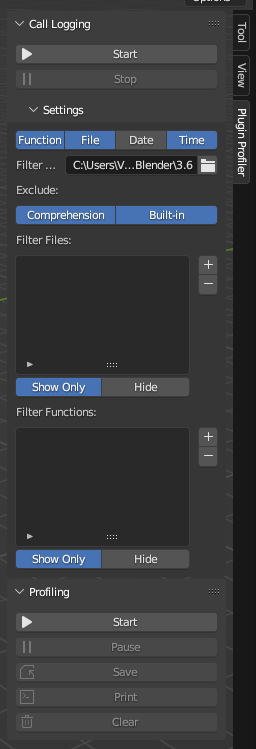
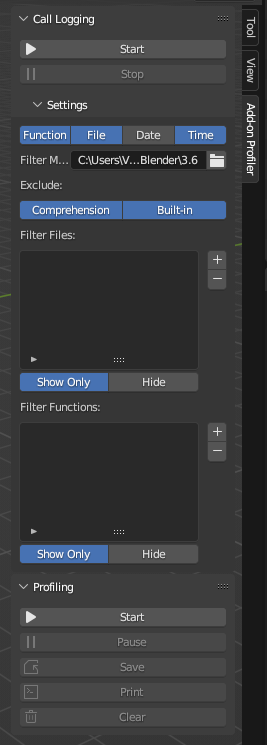
Renamed addon

diff --git a/AddonProfiler/ui.py b/AddonProfiler/ui.py
@@ -12,10 +12,10 @@ from . import utils
 prof = utils.Profiler()
 
 
-class PPROF_OT_logging_filter_add(bpy.types.Operator):
+class APROF_OT_logging_filter_add(bpy.types.Operator):
     """Add new filter item"""
 
-    bl_idname = "pprof.logging_filter_add"
+    bl_idname = "aprof.logging_filter_add"
     bl_label = "Add"
     bl_options = {'REGISTER', 'UNDO'}
 
@@ -29,15 +29,15 @@ class PPROF_OT_logging_filter_add(bpy.types.Operator):
         return True
     
     def execute(self, context):
-        getattr(context.window_manager.pprof_logging, self.prop).add()
+        getattr(context.window_manager.aprof_logging, self.prop).add()
 
         return {'FINISHED'}
 
 
-class PPROF_OT_logging_filter_remove(bpy.types.Operator):
+class APROF_OT_logging_filter_remove(bpy.types.Operator):
     """Remove selected filter item"""
 
-    bl_idname = "pprof.logging_filter_remove"
+    bl_idname = "aprof.logging_filter_remove"
     bl_label = "Remove"
     bl_options = {'REGISTER', 'UNDO'}
 
@@ -51,7 +51,7 @@ class PPROF_OT_logging_filter_remove(bpy.types.Operator):
         return True
     
     def execute(self, context):
-        props = context.window_manager.pprof_logging
+        props = context.window_manager.aprof_logging
         idx = getattr(props, "%s_index" % self.prop)
         filters = getattr(props, self.prop)
         if not (0 <= idx < len(filters)):
@@ -63,10 +63,10 @@ class PPROF_OT_logging_filter_remove(bpy.types.Operator):
         return {'FINISHED'}
 
 
-class PPROF_OT_logging_start(bpy.types.Operator):
+class APROF_OT_logging_start(bpy.types.Operator):
     """Start execution logging"""
 
-    bl_idname = "pprof.logging_start"
+    bl_idname = "aprof.logging_start"
     bl_label = "Start"
     bl_options = {'REGISTER'}
 
@@ -76,15 +76,15 @@ class PPROF_OT_logging_start(bpy.types.Operator):
     
     def execute(self, context):
         profiler = utils.Profiler()
-        profiler.settings = context.window_manager.pprof_logging
+        profiler.settings = context.window_manager.aprof_logging
         setprofile(profiler.logger)
         return {'FINISHED'}
 
 
-class PPROF_OT_logging_stop(bpy.types.Operator):
+class APROF_OT_logging_stop(bpy.types.Operator):
     """Stop execution logging"""
 
-    bl_idname = "pprof.logging_stop"
+    bl_idname = "aprof.logging_stop"
     bl_label = "Stop"
     bl_options = {'REGISTER'}
 
@@ -97,10 +97,10 @@ class PPROF_OT_logging_stop(bpy.types.Operator):
         return {'FINISHED'}
 
 
-class PPROF_OT_profiling_start(bpy.types.Operator):
+class APROF_OT_profiling_start(bpy.types.Operator):
     """Start profiling"""
 
-    bl_idname = "pprof.profiling_start"
+    bl_idname = "aprof.profiling_start"
     bl_label = "Start"
     bl_options = {'REGISTER'}
 
@@ -113,10 +113,10 @@ class PPROF_OT_profiling_start(bpy.types.Operator):
         return {'FINISHED'}
 
 
-class PPROF_OT_profiling_pause(bpy.types.Operator):
+class APROF_OT_profiling_pause(bpy.types.Operator):
     """Pause profiling"""
 
-    bl_idname = "pprof.profiling_pause"
+    bl_idname = "aprof.profiling_pause"
     bl_label = "Pause"
     bl_options = {'REGISTER'}
 
@@ -129,10 +129,10 @@ class PPROF_OT_profiling_pause(bpy.types.Operator):
         return {'FINISHED'}
 
 
-class PPROF_OT_profiling_save(bpy.types.Operator, ExportHelper):
+class APROF_OT_profiling_save(bpy.types.Operator, ExportHelper):
     """Save collected profiling data"""
 
-    bl_idname = "pprof.profiling_save"
+    bl_idname = "aprof.profiling_save"
     bl_label = "Save"
     bl_options = {'REGISTER'}
     filename_ext = ".prof"
@@ -152,10 +152,10 @@ class PPROF_OT_profiling_save(bpy.types.Operator, ExportHelper):
         return {'FINISHED'}
 
 
-class PPROF_OT_profiling_print(bpy.types.Operator):
+class APROF_OT_profiling_print(bpy.types.Operator):
     """Print collected profiling data to the system console"""
 
-    bl_idname = "pprof.profiling_print"
+    bl_idname = "aprof.profiling_print"
     bl_label = "Print"
     bl_options = {'REGISTER'}
 
@@ -171,10 +171,10 @@ class PPROF_OT_profiling_print(bpy.types.Operator):
         return {'FINISHED'}
 
 
-class PPROF_OT_profiling_clear(bpy.types.Operator):
+class APROF_OT_profiling_clear(bpy.types.Operator):
     """Clear collected profiling data"""
 
-    bl_idname = "pprof.profiling_clear"
+    bl_idname = "aprof.profiling_clear"
     bl_label = "Clear"
     bl_options = {'REGISTER'}
 
@@ -187,15 +187,15 @@ class PPROF_OT_profiling_clear(bpy.types.Operator):
         return {'FINISHED'}
 
 
-class PPROF_UL_filter(bpy.types.UIList):
+class APROF_UL_filter(bpy.types.UIList):
     def draw_item(self, context, layout, data, item, icon, active_data, active_propname):
         layout.prop(item, "name", text="", emboss=False, icon='FILTER') 
 
 
-class PPROF_PT_logging(bpy.types.Panel):
+class APROF_PT_logging(bpy.types.Panel):
     bl_space_type = 'VIEW_3D'
     bl_region_type = 'UI'
-    bl_category = "Plugin Profiler"
+    bl_category = "Add-on Profiler"
     bl_label = "Call Logging"
 
     @classmethod
@@ -208,16 +208,16 @@ class PPROF_PT_logging(bpy.types.Panel):
     def draw(self, context):
         layout = self.layout
 
-        layout.operator(PPROF_OT_logging_start.bl_idname, icon='PLAY')
-        layout.operator(PPROF_OT_logging_stop.bl_idname, icon='PAUSE')
+        layout.operator(APROF_OT_logging_start.bl_idname, icon='PLAY')
+        layout.operator(APROF_OT_logging_stop.bl_idname, icon='PAUSE')
 
 
-class PPROF_PT_logging_settings(bpy.types.Panel):
+class APROF_PT_logging_settings(bpy.types.Panel):
     bl_space_type = 'VIEW_3D'
     bl_region_type = 'UI'
-    bl_category = "Plugin Profiler"
+    bl_category = "Add-on Profiler"
     bl_label = "Settings"
-    bl_parent_id = "PPROF_PT_logging"
+    bl_parent_id = "APROF_PT_logging"
     bl_options = {'DEFAULT_CLOSED'}
 
     @classmethod
@@ -230,7 +230,7 @@ class PPROF_PT_logging_settings(bpy.types.Panel):
     def draw(self, context):
         layout = self.layout
 
-        props = context.window_manager.pprof_logging
+        props = context.window_manager.aprof_logging
         row = layout.row(align=True)
         row.prop(props, "logger_details", expand=True)
         layout.prop(props, "filter_module")
@@ -243,32 +243,32 @@ class PPROF_PT_logging_settings(bpy.types.Panel):
         layout.label(text="Filter Files:")
         row_file = layout.row()
         col_list_file = row_file.column()
-        col_list_file.template_list("PPROF_UL_filter", "PPROF_filter_file", props, "filter_file", props, "filter_file_index")
+        col_list_file.template_list("APROF_UL_filter", "APROF_filter_file", props, "filter_file", props, "filter_file_index")
         row_type_file = col_list_file.row(align=True)
         row_type_file.prop(props, "filter_file_type", expand=True)
         col_op_file = row_file.column(align=True)
-        op_add_file = col_op_file.operator("pprof.logging_filter_add", text="", icon='ADD')
+        op_add_file = col_op_file.operator("aprof.logging_filter_add", text="", icon='ADD')
         op_add_file.prop = "filter_file"
-        op_rem_file = col_op_file.operator("pprof.logging_filter_remove", text="", icon='REMOVE')
+        op_rem_file = col_op_file.operator("aprof.logging_filter_remove", text="", icon='REMOVE')
         op_rem_file.prop = "filter_file"
 
         layout.label(text="Filter Functions:")
         row_func = layout.row()
         col_list_func = row_func.column()
-        col_list_func.template_list("PPROF_UL_filter", "PPROF_filter_func", props, "filter_func", props, "filter_func_index")
+        col_list_func.template_list("APROF_UL_filter", "APROF_filter_func", props, "filter_func", props, "filter_func_index")
         row_type_func = col_list_func.row(align=True)
         row_type_func.prop(props, "filter_func_type", expand=True)
         col_op_func = row_func.column(align=True)
-        op_add_func = col_op_func.operator("pprof.logging_filter_add", text="", icon='ADD')
+        op_add_func = col_op_func.operator("aprof.logging_filter_add", text="", icon='ADD')
         op_add_func.prop = "filter_func"
-        op_rem_func = col_op_func.operator("pprof.logging_filter_remove", text="", icon='REMOVE')
+        op_rem_func = col_op_func.operator("aprof.logging_filter_remove", text="", icon='REMOVE')
         op_rem_func.prop = "filter_func"
 
 
-class PPROF_PT_profiler(bpy.types.Panel):
+class APROF_PT_profiler(bpy.types.Panel):
     bl_space_type = 'VIEW_3D'
     bl_region_type = 'UI'
-    bl_category = "Plugin Profiler"
+    bl_category = "Add-on Profiler"
     bl_label = "Profiling"
 
     @classmethod
@@ -282,27 +282,27 @@ class PPROF_PT_profiler(bpy.types.Panel):
         layout = self.layout
 
         name = "Resume" if not prof.is_running() and prof.cprof.getstats() else "Start"
-        layout.operator(PPROF_OT_profiling_start.bl_idname, text=name, icon='PLAY')
-        layout.operator(PPROF_OT_profiling_pause.bl_idname, icon='PAUSE')
-        layout.operator(PPROF_OT_profiling_save.bl_idname, icon='FILE_TICK')
-        layout.operator(PPROF_OT_profiling_print.bl_idname, icon='CONSOLE')
-        layout.operator(PPROF_OT_profiling_clear.bl_idname, icon='TRASH')
+        layout.operator(APROF_OT_profiling_start.bl_idname, text=name, icon='PLAY')
+        layout.operator(APROF_OT_profiling_pause.bl_idname, icon='PAUSE')
+        layout.operator(APROF_OT_profiling_save.bl_idname, icon='FILE_TICK')
+        layout.operator(APROF_OT_profiling_print.bl_idname, icon='CONSOLE')
+        layout.operator(APROF_OT_profiling_clear.bl_idname, icon='TRASH')
 
 
 classes = (
-    PPROF_OT_logging_filter_add,
-    PPROF_OT_logging_filter_remove,
-    PPROF_OT_logging_start,
-    PPROF_OT_logging_stop,
-    PPROF_OT_profiling_start,
-    PPROF_OT_profiling_pause,
-    PPROF_OT_profiling_save,
-    PPROF_OT_profiling_print,
-    PPROF_OT_profiling_clear,
-    PPROF_UL_filter,
-    PPROF_PT_logging,
-    PPROF_PT_logging_settings,
-    PPROF_PT_profiler
+    APROF_OT_logging_filter_add,
+    APROF_OT_logging_filter_remove,
+    APROF_OT_logging_start,
+    APROF_OT_logging_stop,
+    APROF_OT_profiling_start,
+    APROF_OT_profiling_pause,
+    APROF_OT_profiling_save,
+    APROF_OT_profiling_print,
+    APROF_OT_profiling_clear,
+    APROF_UL_filter,
+    APROF_PT_logging,
+    APROF_PT_logging_settings,
+    APROF_PT_profiler
 )
 
 

diff --git a/AddonProfiler/props.py b/AddonProfiler/props.py
@@ -1,14 +1,14 @@
 import bpy
 
 
-class PPROF_PG_logging_filteritem(bpy.types.PropertyGroup):
+class APROF_PG_logging_filteritem(bpy.types.PropertyGroup):
     name: bpy.props.StringProperty(
         name="Name",
         description="Value to filter"
     )
 
 
-class PPROF_PG_logging(bpy.types.PropertyGroup):
+class APROF_PG_logging(bpy.types.PropertyGroup):
     logger_details: bpy.props.EnumProperty(
         name="Details",
         description="Call details to log",
@@ -40,7 +40,7 @@ class PPROF_PG_logging(bpy.types.PropertyGroup):
     filter_file: bpy.props.CollectionProperty(
         name="Filter Files",
         description="File paths to filter",
-        type=PPROF_PG_logging_filteritem
+        type=APROF_PG_logging_filteritem
     )
     filter_file_index: bpy.props.IntProperty(name="Active Filter Index", description="Double click to change name and value")
     filter_file_type: bpy.props.EnumProperty(
@@ -55,7 +55,7 @@ class PPROF_PG_logging(bpy.types.PropertyGroup):
     filter_func: bpy.props.CollectionProperty(
         name="Filter Functions",
         description="Function names to filter",
-        type=PPROF_PG_logging_filteritem
+        type=APROF_PG_logging_filteritem
     )
     filter_func_index: bpy.props.IntProperty(name="Active Filter Index", description="Double click to change name and value")
     filter_func_type: bpy.props.EnumProperty(
@@ -70,8 +70,8 @@ class PPROF_PG_logging(bpy.types.PropertyGroup):
 
 
 classes = (
-    PPROF_PG_logging_filteritem,
-    PPROF_PG_logging
+    APROF_PG_logging_filteritem,
+    APROF_PG_logging
 )
 
 
@@ -79,11 +79,11 @@ def register():
     for cls in classes:
         bpy.utils.register_class(cls)
     
-    bpy.types.WindowManager.pprof_logging = bpy.props.PointerProperty(type=PPROF_PG_logging)
+    bpy.types.WindowManager.aprof_logging = bpy.props.PointerProperty(type=APROF_PG_logging)
 
 
 def unregister():
-    del bpy.types.WindowManager.pprof_logging
+    del bpy.types.WindowManager.aprof_logging
 
     for cls in reversed(classes):
         bpy.utils.unregister_class(cls)

diff --git a/AddonProfiler/__init__.py b/AddonProfiler/__init__.py
@@ -1,11 +1,11 @@
 bl_info = {
-    "name" : "Plugin Profiler",
+    "name" : "Add-on Profiler",
     "author" : "MrClock, bd3d (originally), rubenmesserschmidt (initial fixes)",
     "description" : "Monitor and capture add-on profiling data",
     "blender" : (2, 90, 0),
     "version" : (2, 0, 0),
     "wiki_url" : "",
-    "tracker_url" : "https://github.com/MrClock8163/Plugin-Profiler/issues",
+    "tracker_url" : "https://github.com/MrClock8163/AddonProfiler/issues",
     "category" : "Development",
     "warning": ""
 }

diff --git a/README.md b/README.md
@@ -1,4 +1,4 @@
-# Plugin Profiler
+# Add-on Profiler
 
 >[!NOTE]
 >This project is a reimplementation of the original [Plugin-Profiler](https://github.com/DB3D/Plugin-Profiler) add-on created by [DB3D](https://github.com/DB3D) and improved by [rubenmesserschmidt](https://github.com/rubenmesserschmidt) ([Plugin-Profiler](https://github.com/rubenmesserschmidt/Plugin-Profiler)).
@@ -7,11 +7,11 @@
 
 ## About
 
-Plugin Profiler is a Python utility add-on for [Blender](https://www.blender.org/), providing a convenient and in-software solution to monitor code execution and capture profiling data when needed during add-on development.
+Add-on Profiler is a Python utility add-on for [Blender](https://www.blender.org/), providing a convenient and in-software solution to monitor code execution and capture profiling data when needed during add-on development.
 
 ## Usage
 
-The two main features of the add-on are execution logging and profiling. The tools can be found on the `Plugin Profiler` tabs of the 3D viewport sidebar.
+The two main features of the add-on are execution logging and profiling. The tools can be found on the `Add-on Profiler` tabs of the 3D viewport sidebar.
 
 ![Tool panels](/images/img_tool_panels.png)
 
